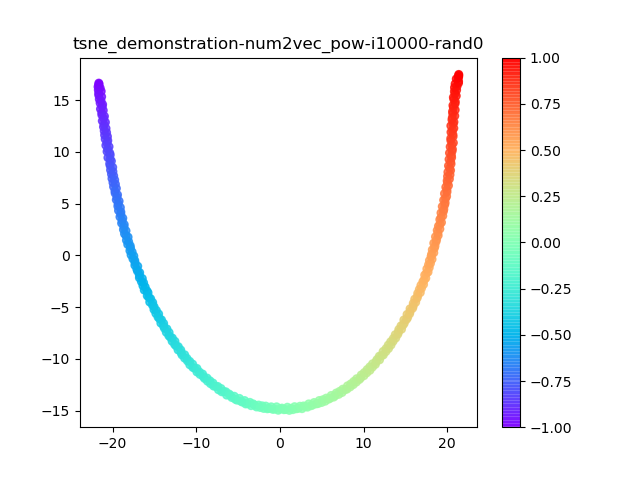
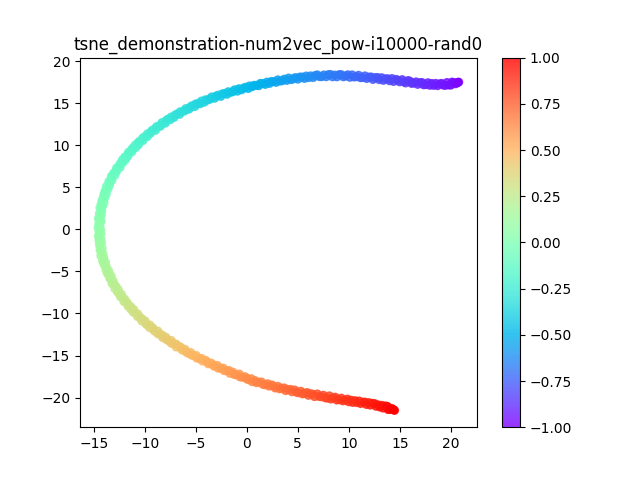
README and requirements

diff --git a/time2vec.py b/time2vec.py
@@ -1,9 +1,9 @@
 import json
 import numpy as np
 import math
-from num2vec import num2vec
-from num2vec import num2vec2
-from num2vec import num2vec3
+from num2vec import num2vec_matchvie
+from num2vec import num2vec_sign
+from num2vec import num2vec_1d
 from num2vec import num2vec_pow
 
 file_name = 'timeseries/eclipse-vertx__vert.x#io.vertx.benchmarks.ContextBenchmark.runOnContextNoChecks#.json'

diff --git a/demonstration.py b/demonstration.py
@@ -48,7 +48,7 @@ if __name__ == '__main__':
         'num2vec_pow':num2vec_pow,
         'num2vec_matchvie':num2vec_matchvie,
         'num2vec_sign':num2vec_sign,
-        'num2vec_pow':num2vec_pow
+        'num2vec_1d':num2vec_1d
     }
 
     for idx, arg in enumerate(sys.argv):

diff --git a/README.md b/README.md
@@ -1,0 +1,29 @@
+# time2vec
+## Requirements
+```
+pip install -r requirements.txt
+```
+## num2vec function demonstration
+Run tsne demonstration: plot a serie of values vectorized by the function num2vec and passed to the tool T-distributed Stochastic Neighbor Embedding (to visualize the relationship between high-dimensional data). 
+```
+python demonstration.py
+```
+Default function `num2vec_pow` \
+Default serie of values $[-1,1]$ \
+Default step to generate values in range $0.005$ \
+Default tsne iters $10000$ \
+
+### Script arguments
+Example
+```
+python demonstration.py -f num2vec_1d
+```
+#### num2vec function selection
+- `-f <func_name>` name of the function to test, available options `num2vec_pow`, `num2vec_matchvie`, `num2vec_sign`, `num2vec_1d`
+#### Nums domain arguments
+- `-min <min>` min value of the serie 
+- `-max <max>` max value of the serie
+- `-step <step>` step to generate values in range
+#### TSNE arguments
+- `-i <tsne_iters>` tsne iters
+- `-rand <random_state>` random_state 
